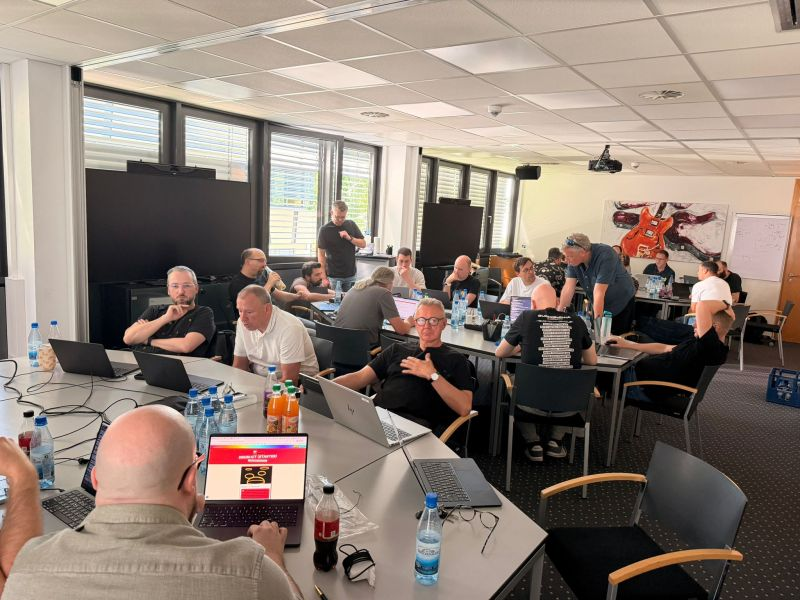
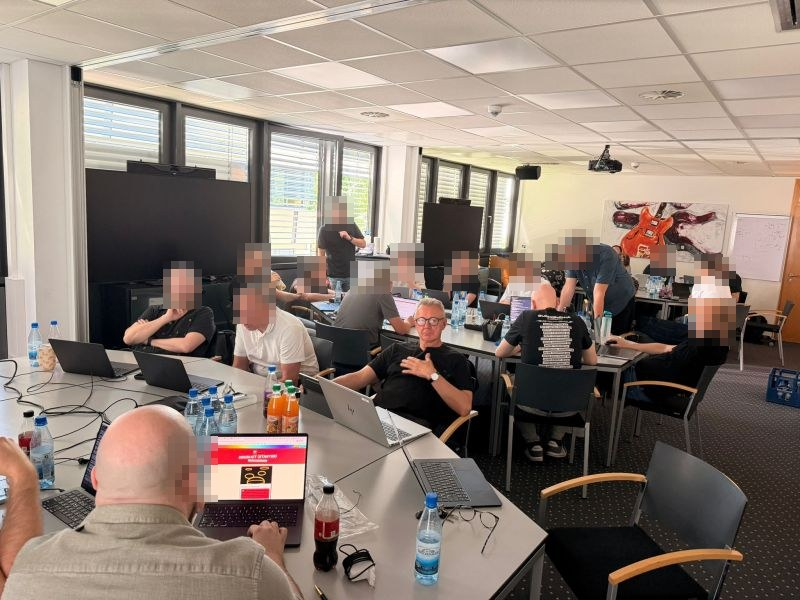
content: EHI-2026 — Folie 9 Gesichter verpixelt (außer Person in der Mitte)

diff --git a/public/ehi2026/index.html b/public/ehi2026/index.html
@@ -466,7 +466,7 @@
 
     <div class="inhalt">
       <div class="grossbild">
-        <img src="bilder/bootcamp.jpg" alt="KI-Bootcamp bei Thomann: Teilnehmende arbeiten an Laptops">
+        <img src="bilder/bootcamp.jpg?v=2" alt="KI-Bootcamp bei Thomann: Teilnehmende arbeiten an Laptops">
       </div>
     </div>
 
